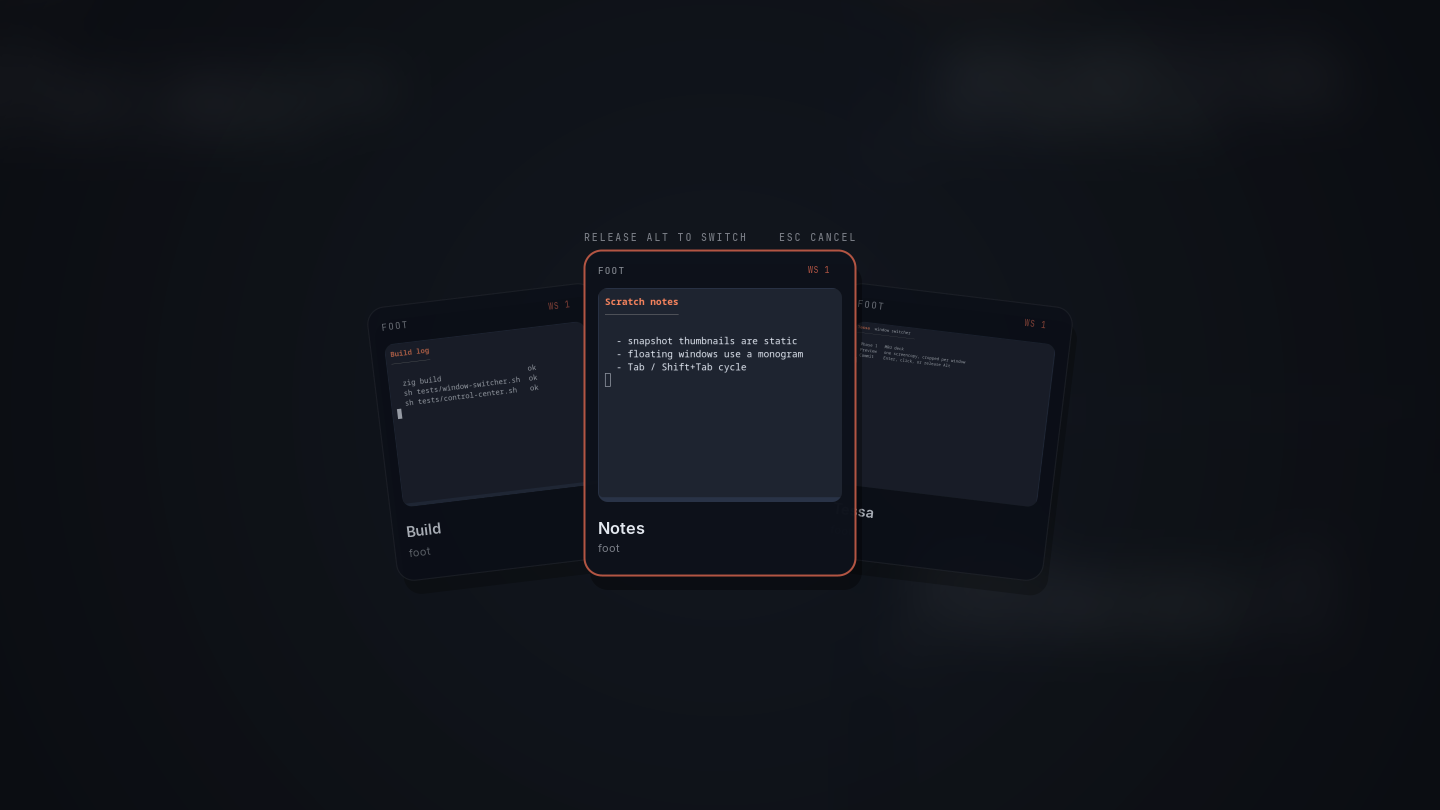
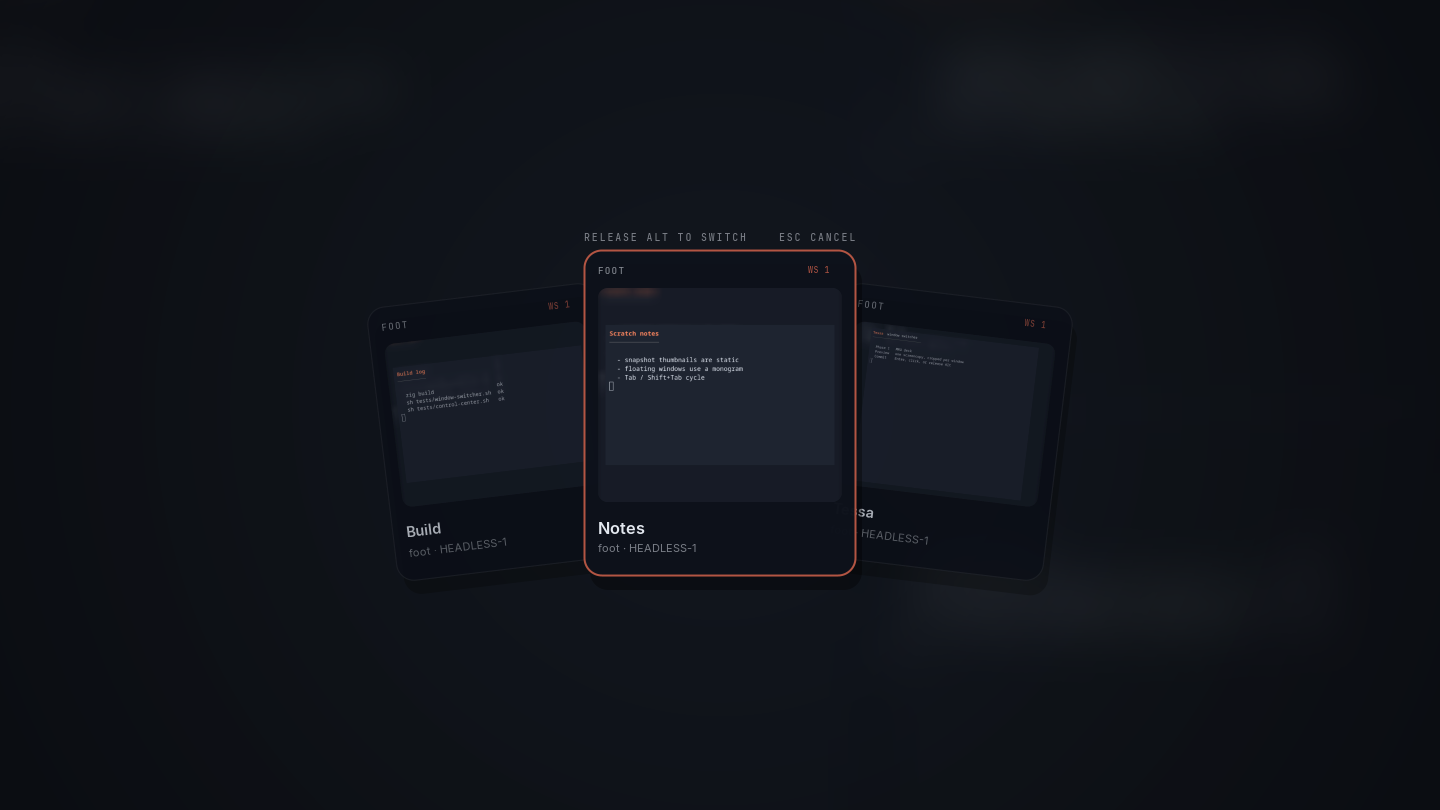
Sync Phase 2 live window switcher docs

diff --git a/src/content/docs/docs/guide.md b/src/content/docs/docs/guide.md
@@ -602,7 +602,7 @@ stagger, and slides its selection marker between results.
 | `bar_position` | `top` | Bar edge: `top`, `bottom`, `left`, or `right` |
 | `panel_style` | `classic` | `classic` keeps separate popovers; `unified` adds the control center |
 | `control_features` | `all` | Control-center features (CSV, `all`, `none`) |
-| `window_switcher` | `snapshot` | Alt+Tab switcher: `snapshot` thumbnails, `icons`, or `off` |
+| `window_switcher` | `snapshot` | Alt+Tab switcher: live `snapshot` previews, `icons`, or `off` |
 | `control_action` | - | Custom quick action `Label \| command` (repeatable) |
 | `bar_top_margin` | `12` | Distance from the chosen edge (0–64) |
 | `bar_side_margin` | `16` | Inset along the bar; left/right for top/bottom, top/bottom for left/right (0–128) |
@@ -635,10 +635,9 @@ stagger, and slides its selection marker between results.
 `tray`, `calendar`, and `power`, separated by commas, spaces, or `|`.
 `control_action` is repeatable up to four times.
 
-`window_switcher = snapshot` (default) captures the focused output when the
-switcher opens and crops per-window previews from that frame. `icons` skips the
-capture and shows app monograms; `off` disables the switcher. See
-[Window switcher](#window-switcher).
+`window_switcher = snapshot` (default) renders live per-window previews for
+all outputs and workspaces. `icons` shows app monograms; `off` disables the
+switcher. See [Window switcher](#window-switcher).
 
 Changing bar geometry or `bar_position` recreates the bar layer surface and
 updates its exclusive zone. On `left`/`right` the bar becomes a vertical strip:
@@ -1821,11 +1820,13 @@ shows an unavailable state instead of failing the panel.
 
 ### Window switcher
 
-`Alt+Tab` opens the window switcher on the focused output's current workspace.
-Entries are ordered most-recently-used first. `Tab` / `Shift+Tab`, the arrow
+`Alt+Tab` opens the task switcher with **all windows on every output and
+workspace**, ordered most-recently-used first. `Tab` / `Shift+Tab`, the arrow
 keys, and the wheel move the selection; `Enter`, a click, or releasing Alt
-commits; `Esc` cancels. `Alt+Shift+Tab` starts from the other end. The defaults
-can be overridden with the `window-switcher` action:
+commits; `Esc` cancels. `Alt+Shift+Tab` starts from the other end. Committing a
+window on another workspace or output switches there, then focuses it. Named
+special workspaces are restored too; scratchpad windows are omitted. The
+defaults can be overridden with the `window-switcher` action:
 
 ```
 bind = ALT+Tab window-switcher
@@ -1834,14 +1835,21 @@ bind = ALT+Shift+Tab window-switcher prev
 
 `window_switcher` selects the presentation:
 
-- `snapshot` (default): captures the output once, then crops the frame by each
-  window rectangle. Floating and off-screen windows use an app monogram.
-- `icons`: app monograms only, without a screen capture.
+- `snapshot` (default): each mapped window is rendered live into a private
+  offscreen GPU scene, including subsurfaces, and copied into the panel over
+  `ext-image-copy-capture`. Previews update when the window is damaged and are
+  capped at 512 px on the longest edge, so 4K and fractional-scale windows are
+  never read back at full resolution. Floating and hidden-workspace windows
+  get previews too. Each card draws a blurred thumbnail backdrop behind the
+  sharp preview.
+- `icons`: app monograms only, without capture.
 - `off`: the binding does nothing.
 
-Phase 1 is limited to the focused output and current workspace. Snapshots are
-static and show the screen as it was when the switcher opened; they need
-`zwlr_screencopy`. `tessa-ctl panel switcher` opens the switcher from IPC.
+The switcher keeps the 12 most recent windows. It requires the
+`ext-foreign-toplevel-list-v1`, `ext-image-capture-source-v1`, and
+`ext-image-copy-capture-v1` globals, which Tessa provides. If they are
+unavailable, it falls back to a single screencopy frame cropped by window
+rectangles. `tessa-ctl panel switcher` opens it from IPC.
 
 ### Notifications
 

diff --git a/src/content/docs/ja/docs/architecture.md b/src/content/docs/ja/docs/architecture.md
@@ -226,14 +226,27 @@ layer サーフェスは `output.zig` が overlay → top → bottom → backgro
 サーフェス、キーボードのワークスペース操作には、コンポジタが保持する
 フォーカス中の出力が使われます。
 
-ウィンドウスイッチャーも同じ overlay を使います。パネルはフォーカス中の
-ワークスペースの可視ウィンドウを `focus_seq`（`WIN` 状態行）で MRU 順に
-並べ、`snapshot` では透明オーバーレイを map した後に `zwlr_screencopy` で
-出力を 1 回取得し、ウィンドウの論理矩形から各カードを切り出します。
-フローティング/画面外/取得失敗時はアプリのモノグラムにフォールバックし、
-`icons` はキャプチャせず、`off` は無効化します。選択はパネル内で完結し、
-`Enter`、クリック、またはコンポジタの `switcher-commit` イベントで IPC の
-`focus` を送ります。
+ウィンドウスイッチャーも同じ overlay を使います。パネルは全出力・全
+ワークスペースのマップ済みウィンドウ（スクラッチパッドを除く）を
+`focus_seq`（`WIN` 状態行）で MRU 順に最大 12 件保持し、識別子と出力名も
+一緒に受け取ります。`snapshot` ではコンポジタが
+`ext_foreign_toplevel_image_capture_source_v1` と
+`ext_image_copy_capture_v1` を公開し、リクエストされた toplevel について
+`wlr_scene_subsurface_tree_create` で専用の `wlr_scene` を作り、仮想出力を
+長辺 512 px・ウィンドウの論理サイズに合わせた出力スケールで描画します
+（`preview_source.c`）。これにより 4K/fractional scale でもフル解像度の
+読み戻しは発生しません。パネルは `ext_foreign_toplevel_list_v1` をバインドし、
+`WIN` の識別子とハンドルを対応付け、カードごとにキャプチャセッションと
+512 px 上限の shm バッファを作ります。`ready` 後に次フレームを要求し、
+コンポジタはシーンにダメージがあるまで描画しないため、ダメージ駆動の
+ライブ更新になります。カードごとに 32x32 のぼかし背景も保持します。
+
+`icons` はキャプチャせず、`off` は無効化します。キャプチャ用グローバルが
+ない場合は、フォーカス出力の `zwlr_screencopy` 1 フレームをウィンドウ矩形で
+切り出す方式にフォールバックします。選択はパネル内で完結し、`Enter`、
+クリック、またはコンポジタの `switcher-commit` イベントで IPC の
+`activate` を送ります。`activate` は対象の出力・ワークスペース（名前付き
+特殊ワークスペースを含む）へ切り替えてからフォーカスします。
 
 キーボードフォーカスは `EXCLUSIVE` layer の map 時に取得します
 （`keyboard_interactive == EXCLUSIVE` かつ layer >= top）。`ON_DEMAND` の

diff --git a/src/content/docs/docs/architecture.md b/src/content/docs/docs/architecture.md
@@ -827,17 +827,33 @@ output.
   views. Opening a popover or control center emits a `panel` event, which the
   panel process consumes like the `launcher` event.
 
-  The `switcher` overlay is the MRU task switcher. The panel keeps up to eight
-  visible windows of the focused workspace, sorted by the compositor's
-  `focus_seq` (sent in each `WIN` state line). In `snapshot` mode it requests a
-  single `zwlr_screencopy` frame of the target output after mapping a
-  transparent overlay, keeps the SHM buffer, and crops each card from the
-  window's logical rectangle (scaled by screenshot/output size). Floating,
-  off-screen, and failed-capture windows fall back to an app monogram; `icons`
-  skips capture and `off` disables the mode. Selection is local to the panel;
-  `Enter`, click, or the compositor's `switcher-commit` event focuses the
-  chosen window through the normal IPC `focus` command. `Tab`/arrows/Home/End
-  and the wheel cycle locally, and `Esc` cancels.
+  The `switcher` overlay is the MRU task switcher. The panel keeps the 12 most
+  recent mapped, non-scratchpad windows across **all outputs and workspaces**,
+  sorted by the compositor's `focus_seq` (sent in each `WIN` state line).
+  Entries include the foreign-toplevel identifier and output name.
+
+  In `snapshot` mode the compositor exposes
+  `ext_foreign_toplevel_image_capture_source_v1` and
+  `ext_image_copy_capture_v1`. On request it builds a private `wlr_scene` for
+  the toplevel with `wlr_scene_subsurface_tree_create`, creates a virtual
+  output, and renders that scene through a custom capture source
+  (`preview_source.c`). The output mode is capped at 512 px on the longest
+  edge and the output scale is chosen from the window's logical size, so 4K and
+  fractional-scale clients are rendered directly at thumbnail resolution
+  instead of being read back at full size. The panel binds
+  `ext_foreign_toplevel_list_v1`, matches `WIN` identifiers to handles, creates
+  one capture session per card, and attaches a 512 px-capped shm buffer. After
+  `ready` it requests the next frame immediately; the compositor only produces
+  one once the scene is damaged, giving damage-driven live updates. The panel
+  keeps a blurred 32x32 thumbnail backdrop per card.
+
+  `icons` skips capture and `off` disables the mode. If the capture globals are
+  unavailable, the panel falls back to one `zwlr_screencopy` frame of the
+  focused output and crops by window rectangles. Selection is local to the
+  panel; `Enter`, click, or the compositor's `switcher-commit` event sends the
+  IPC `activate` command, which switches the target output/workspace (including
+  named special workspaces) before focusing. `Tab`/arrows/Home/End and the
+  wheel cycle locally, and `Esc` cancels.
 
 The overlay fades/scales over 150 ms. It is destroyed only after the fade-out;
 destroying the layer surface lets the compositor restore toplevel focus. The

diff --git a/src/content/docs/ja/docs/development.md b/src/content/docs/ja/docs/development.md
@@ -517,12 +517,14 @@ sh tests/control-center.sh
 
 `tests/window-switcher.sh` は `foot` を 3 つ起動し、`wtype` で Alt を 2 秒
 押したまま `Alt+Tab` を送ります。MRU の並び（`windows=3 selected=1`）、
-snapshot モードの screencopy 完了（`previews=true`）、`Tab` + `Return` で
-次のウィンドウへフォーカスが移ること、Escape がフォーカスを変えずに
-キャンセルすることを確認します。続いて `icons` モードで確定を繰り返し、
-`window_switcher = off` ではオーバーレイが開かないことを検証します。
-2 つ目の仮想キーボードの空 modifier でスイッチャーが閉じてしまう回帰も
-このテストでカバーします。
+ライブキャプチャ（`live=true` と `switcher: thumbnail` ログ）、
+`Tab` + `Return` でのアクティベート、Escape のキャンセルを確認します。
+続いて `icons` モードで確定を繰り返し、`window_switcher = off` では
+オーバーレイが開かないことを検証します。さらに別ワークスペースの
+ウィンドウが一覧に出て確定でそのワークスペースへ戻ること、2 出力の
+セッションで別出力のウィンドウを確定するとフォーカス出力が移ることを
+確認します。2 つ目の仮想キーボードの空 modifier でスイッチャーが閉じて
+しまう回帰もカバーします。
 
 ```sh
 sh tests/window-switcher.sh

diff --git a/src/content/docs/ja/docs/index.md b/src/content/docs/ja/docs/index.md
@@ -307,9 +307,10 @@ Linux 実機でビルドし、通常セッションと plain／scenefx ビルド
   - 通知履歴（50 件）、Focus/DND によるトースト抑制、クリア、通知アクション
   - 輝度（logind）と電源プロファイル（power-profiles-daemon）の操作。
     `control_features` でコントロールセンターの機能を個別にオン/オフ可能
-  - MRU 順のウィンドウスイッチャー（`Alt+Tab` / `Alt+Shift+Tab`）。1 回の
-    スクリーンキャプチャからウィンドウごとのプレビューを切り出し、アイコン
-    のみの表示、`Esc`／クリック／Alt 解放での確定に対応。
+  - 全出力・全ワークスペース対応の MRU ウィンドウスイッチャー
+    （`Alt+Tab` / `Alt+Shift+Tab`）。ウィンドウごとのライブ GPU プレビュー
+    （長辺 512 px）、カードごとのぼかし背景、選択先の出力／ワークスペースへ
+    の切り替え、アイコンのみの表示、`Esc`／クリック／Alt 解放での確定に対応。
     `window_switcher = snapshot|icons|off`
   - バーを上下左右の任意の端に配置（`bar_position = top|bottom|left|right`）。
     縦バーではバーとコントロールセンターも縦レイアウト

diff --git a/src/content/docs/docs/development.md b/src/content/docs/docs/development.md
@@ -640,12 +640,14 @@ sh tests/control-center.sh
 
 `tests/window-switcher.sh` starts three `foot` windows and drives `Alt+Tab`
 with `wtype` while holding Alt for 2 s. It checks the MRU deck
-(`windows=3 selected=1`), that snapshot mode completes a screencopy and reports
-`previews=true`, that `Tab` + `Return` focuses the next window, and that Escape
-cancels without focusing. It then repeats the commit in `icons` mode and
-confirms `window_switcher = off` leaves the overlay closed. The test also
-covers the regression where a second virtual keyboard's empty modifier state
-closed the switcher.
+(`windows=3 selected=1`), the live capture path (`live=true` plus a
+`switcher: thumbnail` line), `Tab` + `Return` activation, and Escape cancel. It
+then repeats the commit in `icons` mode, confirms `window_switcher = off`
+leaves the overlay closed, verifies that a window on another workspace is
+listed and activation switches back to it, and starts a two-output session to
+check that a window on the other output is listed and activation moves the
+focused output. The test also covers the regression where a second virtual
+keyboard's empty modifier state closed the switcher.
 
 ```sh
 sh tests/window-switcher.sh

diff --git a/src/content/docs/docs/index.md b/src/content/docs/docs/index.md
@@ -294,9 +294,11 @@ Highlights include:
     notification actions
   - brightness (logind) and power-profile (power-profiles-daemon) controls;
     `control_features` gates each control-center feature independently
-  - MRU window switcher (`Alt+Tab`, `Alt+Shift+Tab`) with per-window snapshot
-    previews cropped from one screencopy, icon-only mode, and `Esc`/click/
-    release-to-commit; `window_switcher = snapshot|icons|off`
+  - MRU window switcher (`Alt+Tab`, `Alt+Shift+Tab`) across all outputs and
+    workspaces: live GPU-rendered per-window previews capped at 512 px, blurred
+    per-card backdrops, switching to the selected output/workspace, icon-only
+    mode, and `Esc`/click/Alt-release commit; `window_switcher =
+    snapshot|icons|off`
   - bar placement on any edge (`bar_position = top|bottom|left|right`), with
     vertical layouts for the bar and control center
   - MPRIS media chip and controls (`Super+M`), local album artwork, progress,

diff --git a/src/content/docs/docs/roadmap.md b/src/content/docs/docs/roadmap.md
@@ -83,10 +83,12 @@ capture protocol.
       monogram fallback for floating/off-screen windows, `Tab`/arrows/wheel
       cycling, `Enter`/click/Alt-release commit, `Esc` cancel, and
       `window_switcher = snapshot|icons|off`.
-- [ ] Phase 2 live thumbnails via `ext-image-copy-capture` (or per-window
-      screencopy) when the protocol is available.
-- [ ] Cross-workspace and all-output entries, pinned/filtered views, and a
-      searchable switcher.
+- [x] Phase 2: live per-window GPU previews over `ext-image-copy-capture`,
+      capped at 512 px on the long edge for 4K/fractional scale; all outputs
+      and workspaces with activation across them; per-card blurred preview
+      backdrops; damage-driven updates. Tessa exposes the capture-source
+      globals and keeps a per-window offscreen scene.
+- [ ] Pinned/filtered views and a searchable switcher; scratchpad inclusion.
 
 ## Rendering and game features
 

diff --git a/src/content/docs/docs/customization.md b/src/content/docs/docs/customization.md
@@ -581,7 +581,7 @@ Use `xim = false` when another input method stack manages `XMODIFIERS`.
 | `bar_position` | bar edge: `top` (default), `bottom`, `left`, or `right` |
 | `panel_style` | `classic` | `classic` keeps separate popovers; `unified` adds the control center |
 | `control_features` | `all` | Control-center features (CSV, `all`, `none`) |
-| `window_switcher` | `snapshot` | Alt+Tab switcher: `snapshot` thumbnails, `icons`, or `off` |
+| `window_switcher` | `snapshot` | Alt+Tab switcher: live `snapshot` previews, `icons`, or `off` |
 | `control_action` | - | Custom quick action `Label \| command` (repeatable) |
 | `bar_top_margin` | distance from the chosen edge (0–64) |
 | `bar_side_margin` | inset along the bar; left/right for top/bottom, top/bottom for left/right (0–128) |
